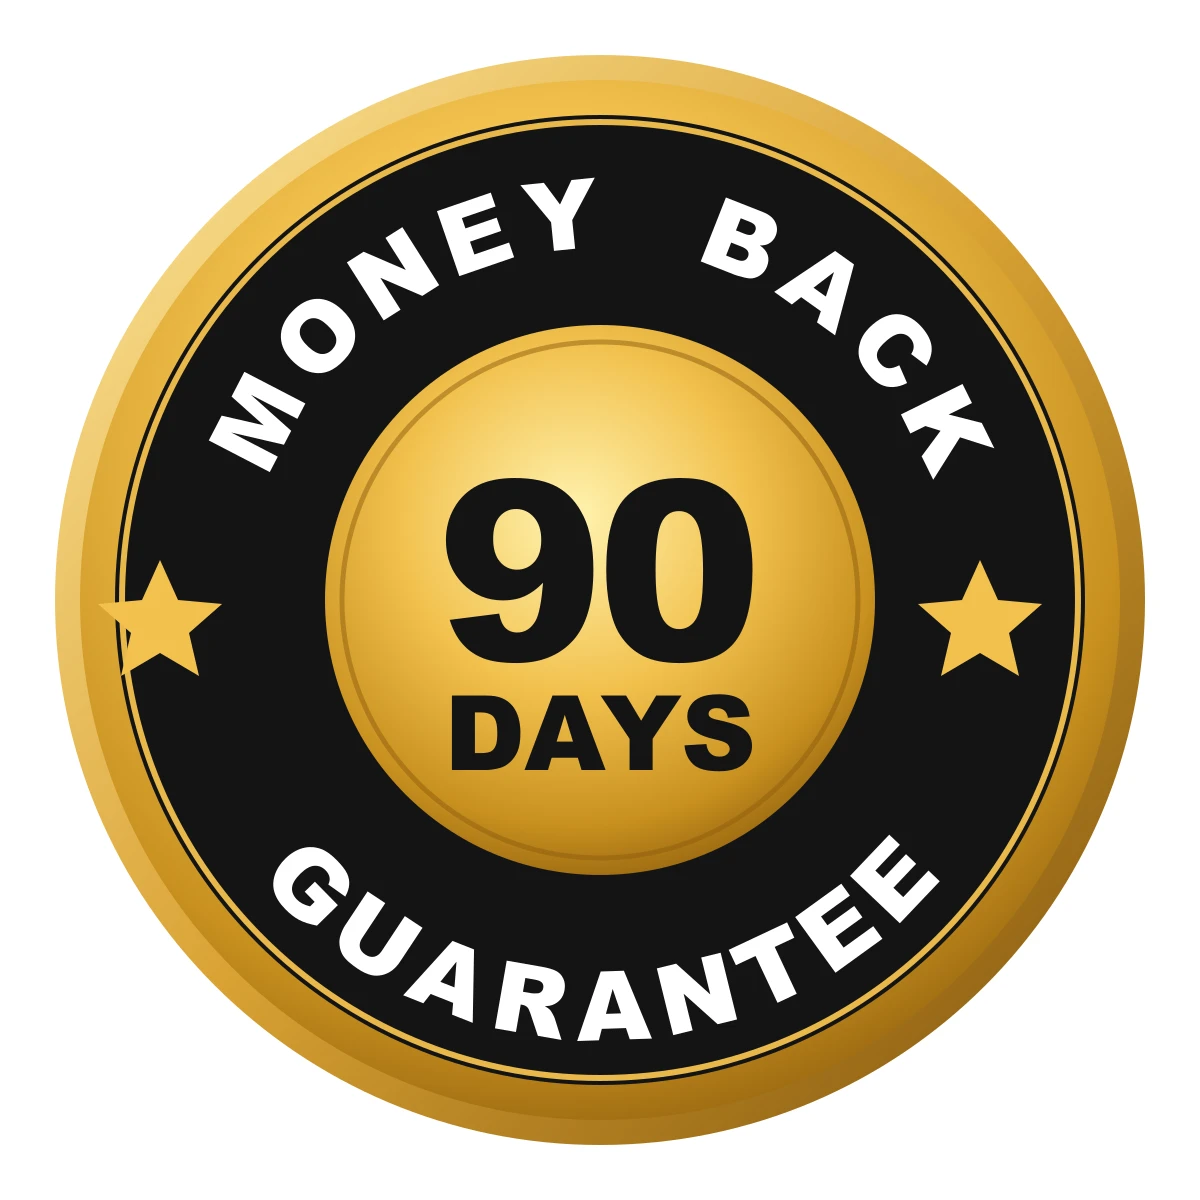
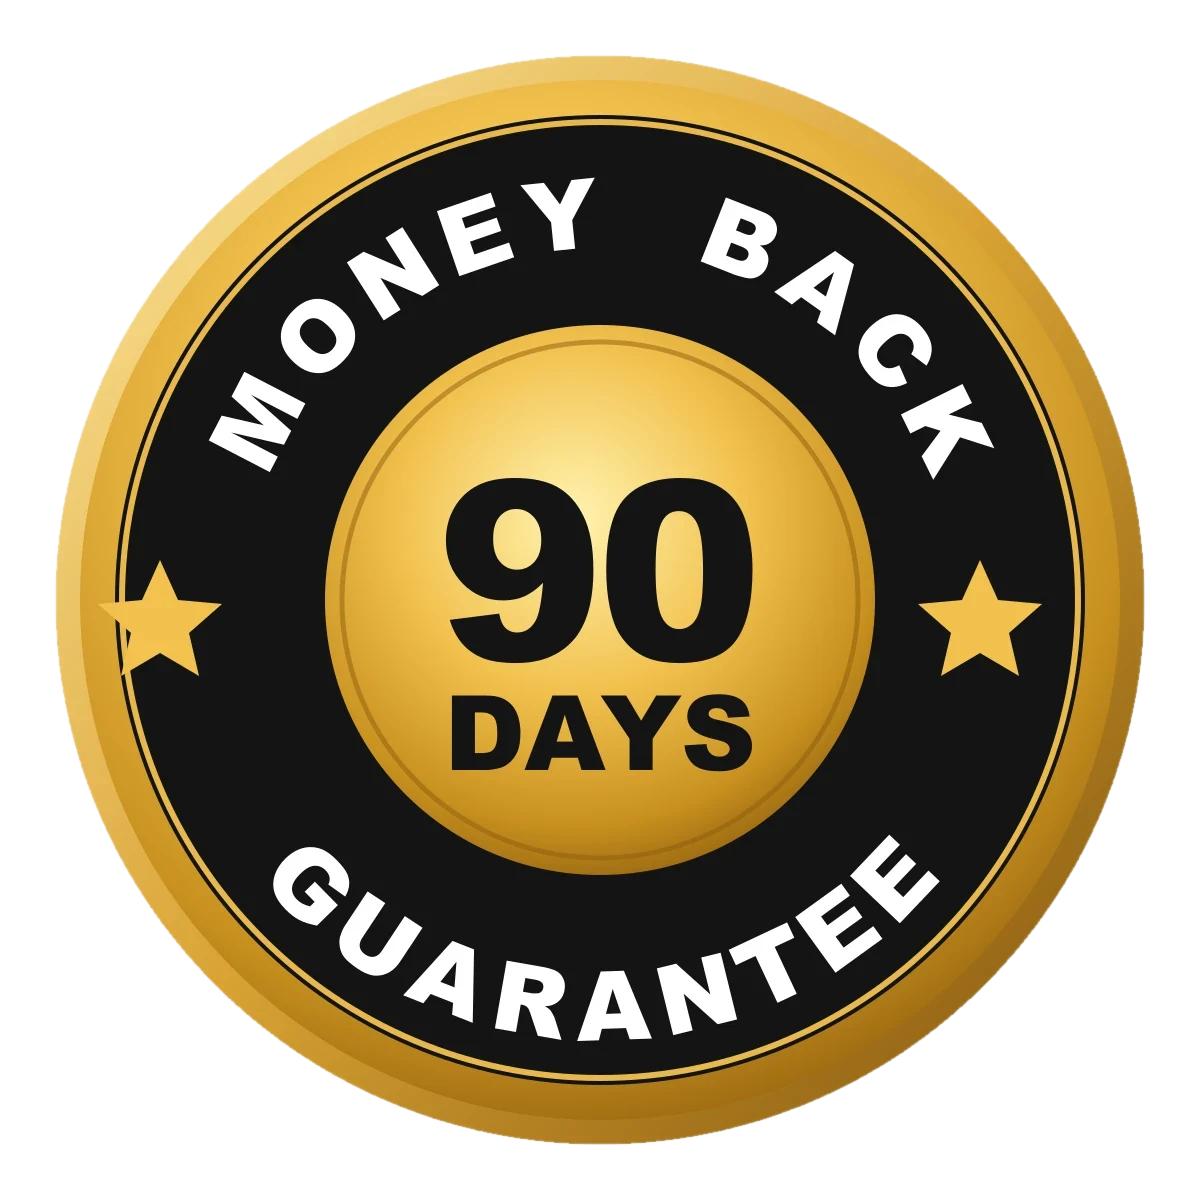
P282 ZA: transparent packshot + 90-day seal, small seal CSS (Evan 12 Nov post-live)

diff --git a/sinurestore-za/art.css b/sinurestore-za/art.css
@@ -967,6 +967,10 @@
 
 #sinurestore-za-art-root .hcr-logo { font-size: 26px; line-height: 1.15; }   
 
+
+#sinurestore-za-art-root .figure img[src*="sinurestore-za/adv_020."] { display: block; width: 190px; max-width: 60%; height: auto; margin: 0 auto; border-radius: 0; filter: drop-shadow(0 6px 14px rgba(0,0,0,.18)); }
+@media (min-width: 1000px) { #sinurestore-za-art-root .figure img[src*="sinurestore-za/adv_020."] { width: 210px; } }
+
 body > .main_wrapper_main:has(> main:empty){ height:0 !important; min-height:0 !important; overflow:hidden !important; }
 body > .main_wrapper_main:has(> main:empty) > main{ min-height:0 !important; height:0 !important; }
 body > .main_wrapper_main:empty{ height:0 !important; min-height:0 !important; }
